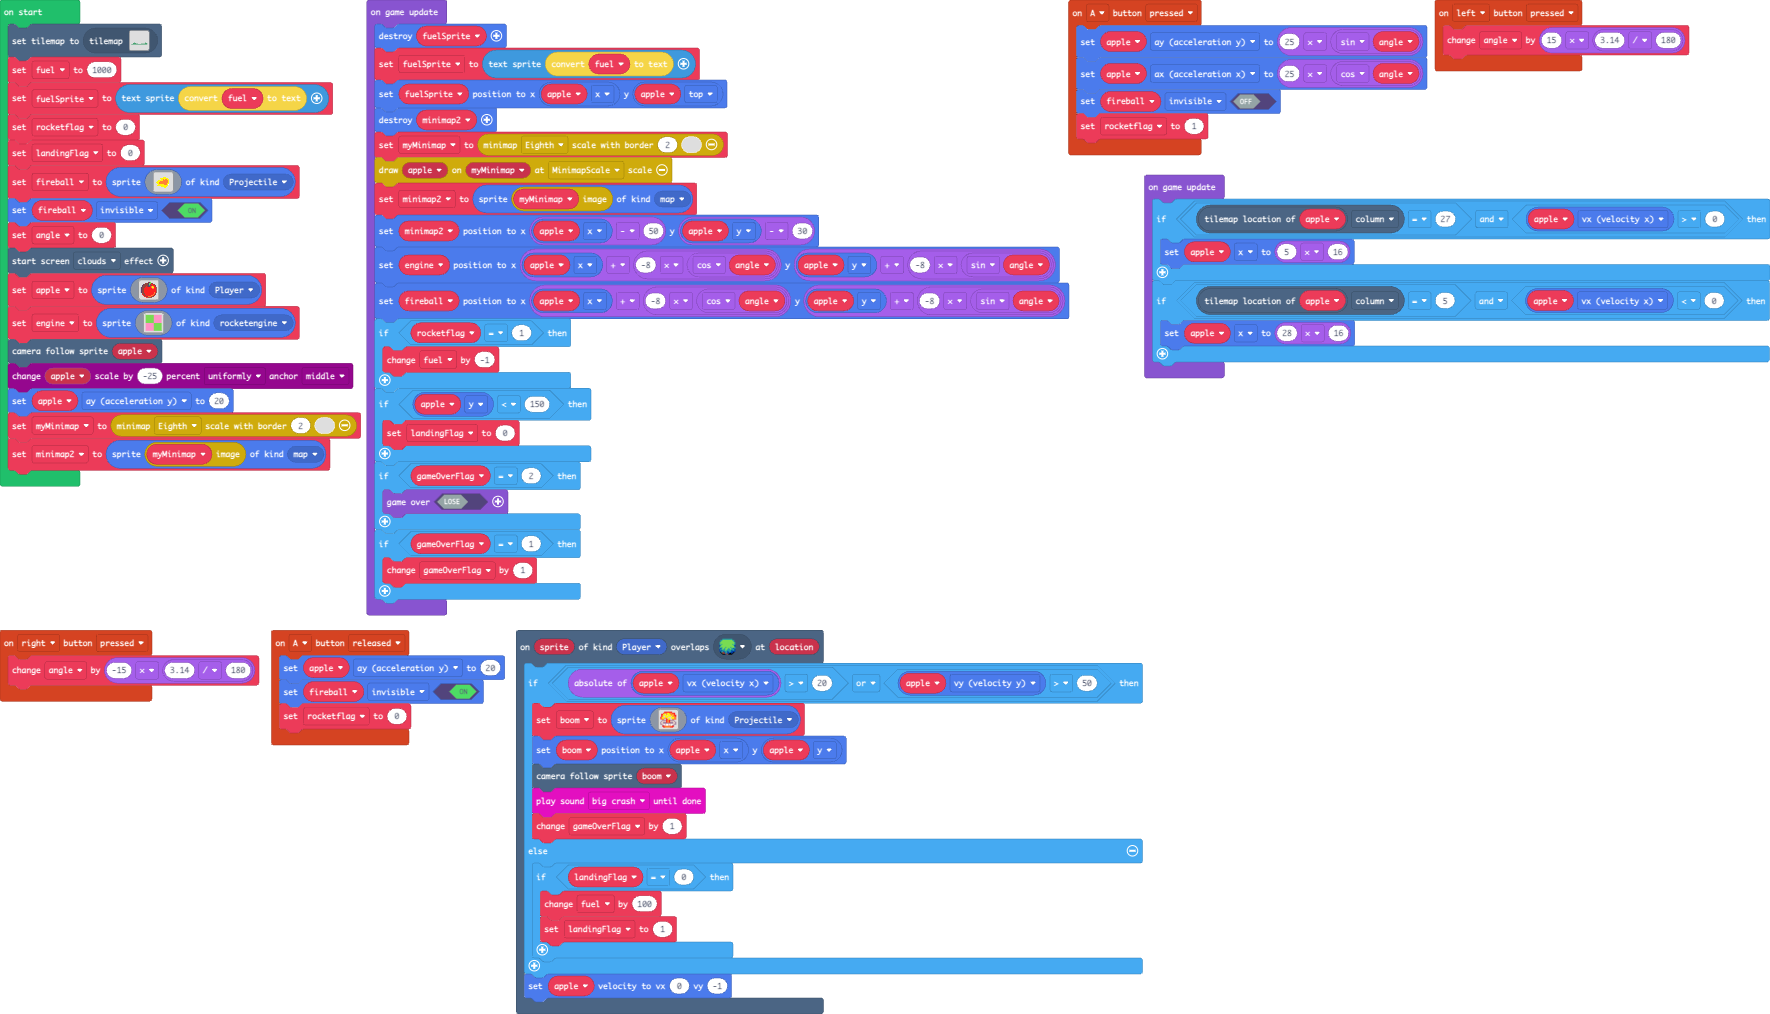
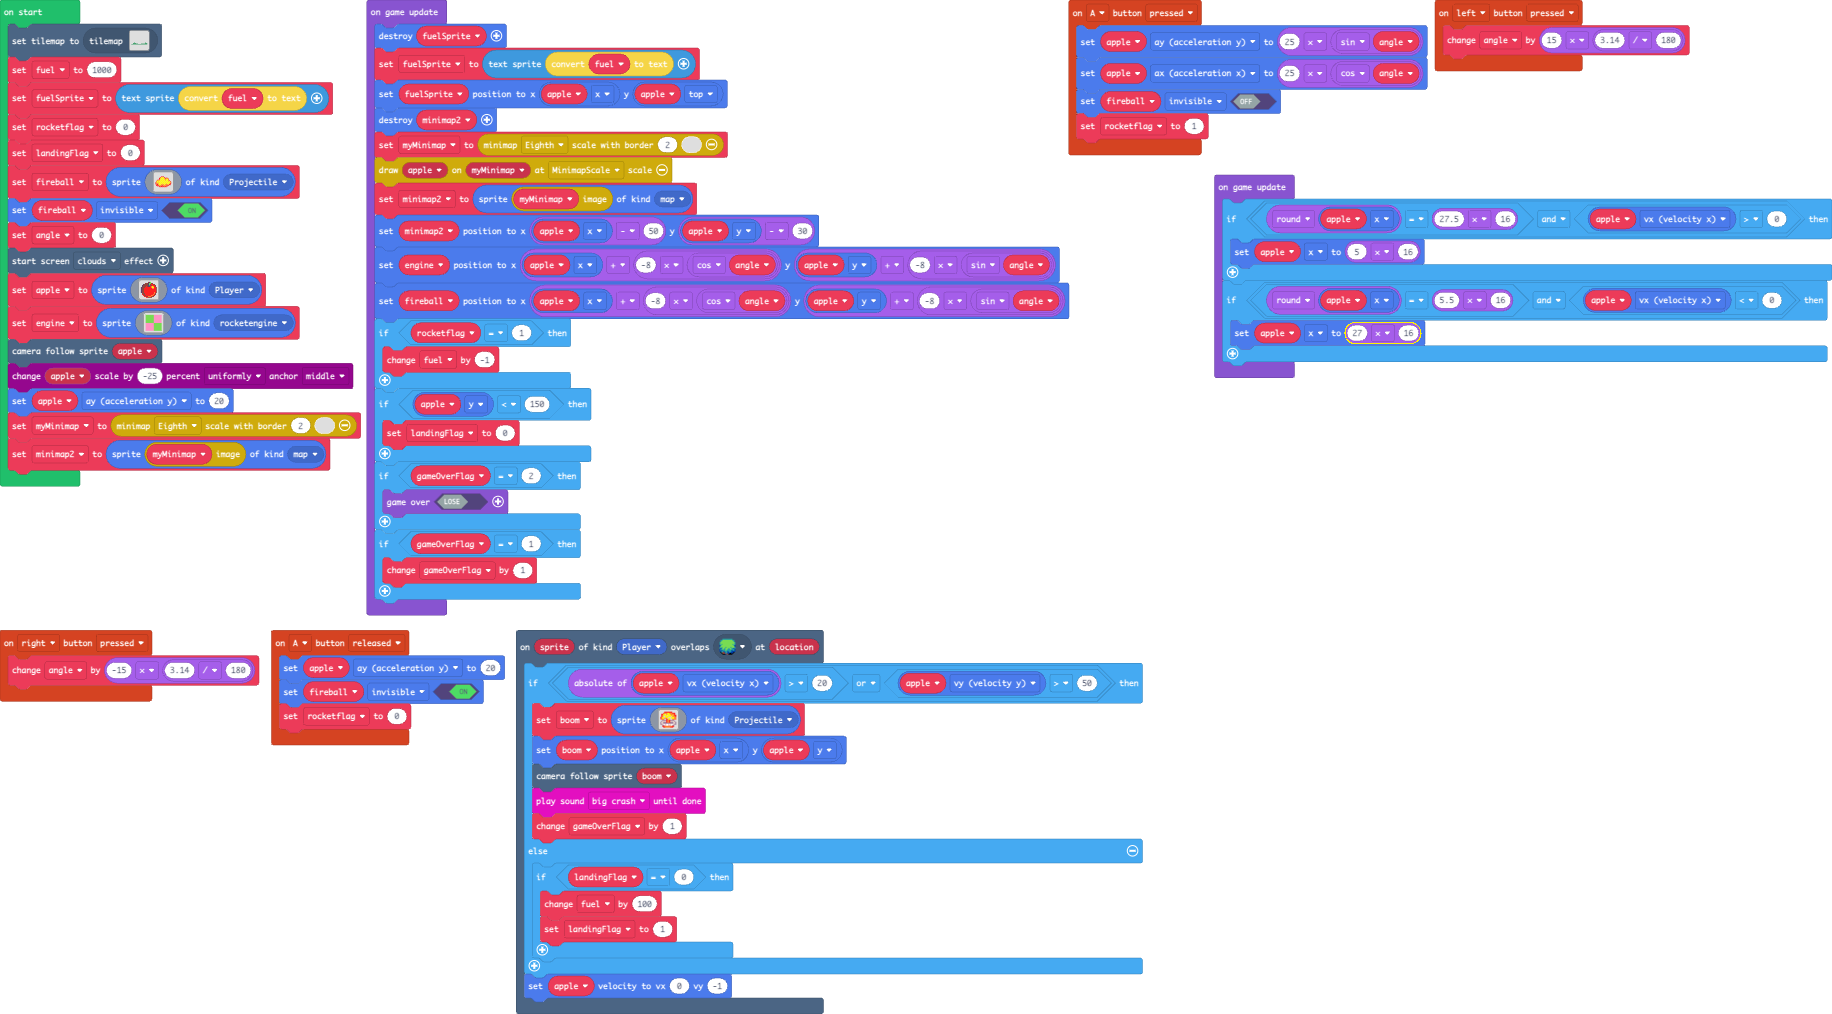
still working on wrapping

diff --git a/main.ts b/main.ts
@@ -64,22 +64,22 @@ let fuelSprite = textsprite.create(convertToText(fuel))
 rocketflag = 0
 landingFlag = 0
 fireball = sprites.create(img`
-    . . . . . . . . . . . . . . . . 
-    . . . . . . . . . . . . . . . . 
-    . . . . . . . . . . . . . . . . 
-    . . . . . . . . 5 5 5 . . . . . 
-    . . . . . 5 5 5 5 5 5 5 5 . . . 
-    . . . . . . 5 5 4 5 4 4 5 5 . . 
-    . . . 5 5 5 5 5 4 4 4 4 4 5 . . 
-    . . 5 5 5 4 4 4 4 4 4 4 4 5 . . 
-    . 5 5 5 4 4 4 4 4 4 4 4 4 5 . . 
-    . . 5 5 4 4 4 4 4 4 4 4 5 5 . . 
-    . . . 5 5 5 5 5 5 4 4 4 5 1 . . 
-    . . 5 5 5 5 5 5 5 5 5 5 5 . . . 
-    . . . . . . 5 5 5 5 5 5 . . . . 
-    . . . . . . . . . 5 5 . . . . . 
-    . . . . . . . . . . . . . . . . 
-    . . . . . . . . . . . . . . . . 
+    .........2222...........
+    .......22555522.........
+    ......2255555522222.....
+    ......25555555444552....
+    ......255555555455552...
+    ...222455555555455552...
+    ..25555555555555555522..
+    .2555555555555555554552.
+    .25554555555555555555552
+    244545555555555555555552
+    244445555555555555555522
+    24424555554555554455522.
+    .2224455544445544244422.
+    .22224444424444444222...
+    ...2224442224444422.....
+    ......22222222222.......
     `, SpriteKind.Projectile)
 fireball.setFlag(SpriteFlag.Invisible, true)
 angle = 0
@@ -136,10 +136,10 @@ game.onUpdate(function () {
     }
 })
 game.onUpdate(function () {
-    if (apple.tilemapLocation().column == 27 && apple.vx > 0) {
+    if (Math.round(apple.x) == 27.5 * 16 && apple.vx > 0) {
         apple.x = 5 * 16
     }
-    if (apple.tilemapLocation().column == 5 && apple.vx < 0) {
-        apple.x = 28 * 16
+    if (Math.round(apple.x) == 5.5 * 16 && apple.vx < 0) {
+        apple.x = 27 * 16
     }
 })
